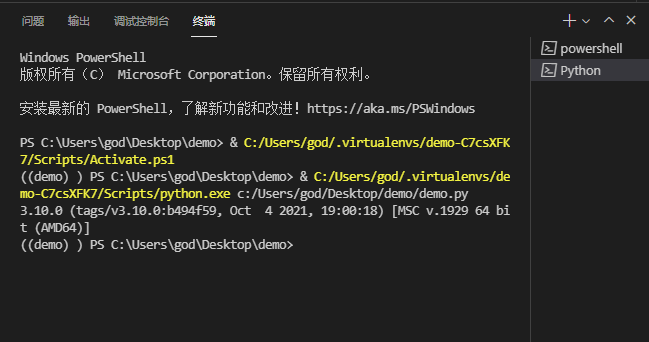
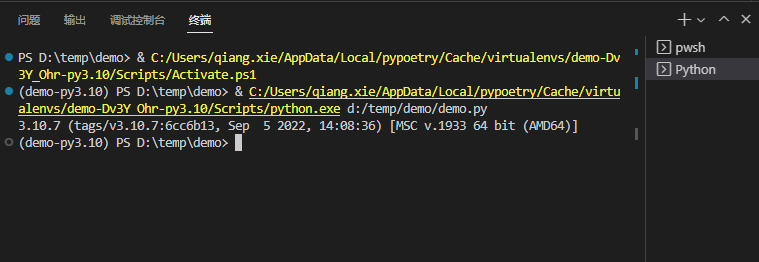
feat: 升级虚拟环境为poetry，替换流程图片

diff --git a/docs/introduction/ides.md b/docs/introduction/ides.md
@@ -9,7 +9,7 @@
 - [Pycharm](https://www.jetbrains.com/pycharm/)
 - [Eclipse](https://www.eclipse.org/downloads/)
 
-上述软件除了 `[Pycharm](https://www.jetbrains.com/pycharm/)` 专业版是收费的，其余都是免费。如果需要使用 [Pycharm](https://www.jetbrains.com/pycharm/)，
+上述软件除了 [Pycharm](https://www.jetbrains.com/pycharm/) 专业版是收费的，其余都是免费。如果需要使用 [Pycharm](https://www.jetbrains.com/pycharm/)，
 建议使用社区版，或者购买正版。
 
 ## Visual Studio Code
@@ -34,9 +34,9 @@
 
 [![windows-vscode-open-demo](../assets/images/ides/windows-vscode-open-demo.png)](../assets/images/ides/windows-vscode-open-demo.png)
 
-然后使用快捷键 ``Ctrl + ` `` 组合键打开终端，执行 `pipenv lock` 生成虚拟环境和 Pipenv 的配置文件：
+然后使用快捷键 ``Ctrl + ` `` 组合键打开终端，执行 `poetry init` 根据提示操作，初始化 `pyproject.toml` 的配置文件，执行 `poetry shell`进行虚拟环境创建，执行 `poetry install`进行依赖安装：
 
-[![windows-vscode-demo-pipenv](../assets/images/ides/windows-vscode-demo-pipenv.png)](../assets/images/ides/windows-vscode-demo-pipenv.png)
+[![windows-vscode-demo-pipenv](../assets/images/ides/windows-vscode-demo-poetry.png)](../assets/images/ides/windows-vscode-demo-poetry.png)
 
 然后使用 `Ctrl + Shift + p` 打开 vscode 的指令窗口，在窗口中输入 `>python: select Interpreter` 来选择项目需要使用的 Python 解释器，
 然后选择上面一步创建的 Python 解释器：
@@ -59,7 +59,7 @@ print(sys.version)
 
 然后右击该文件，选择 `在终端中运行 Python 文件` ：
 
-[[![windows-vscode-demo-run-file](../assets/images/ides/windows-vscode-demo-run-file.png)]](../assets/images/ides/windows-vscode-demo-run-file.png)
+[![windows-vscode-demo-run-file](../assets/images/ides/windows-vscode-demo-run-file.png)](../assets/images/ides/windows-vscode-demo-run-file.png)
 
 可以看到输入：
 
@@ -77,12 +77,12 @@ print(sys.version)
 
 #### 问题原因
 
-由于 Pipenv 为终端(默认是 Powershell) 启动虚拟环境时，使用的 ps1 脚本文件，而 Powershell 默认的执行策略
+由于 poetry 为终端(默认是 Powershell) 启动虚拟环境时，使用的 ps1 脚本文件，而 Powershell 默认的执行策略
 是禁用脚本文件执行的。所以当 vscode 配置了虚拟环境后，启动终端，会无法执行脚本文件。
 
 #### 解决方法
 
-参考 [https:/go.microsoft.com/fwlink/?LinkID=135170] 的说明，并更改当前用户的 Powershell 执行策略：
+参考 [about_Execution_Policies](https:/go.microsoft.com/fwlink/?LinkID=135170) 的说明，并更改当前用户的 Powershell 执行策略：
 
 ```powershell
 Set-ExecutionPolicy -ExecutionPolicy RemoteSigned -Scope CurrentUser
